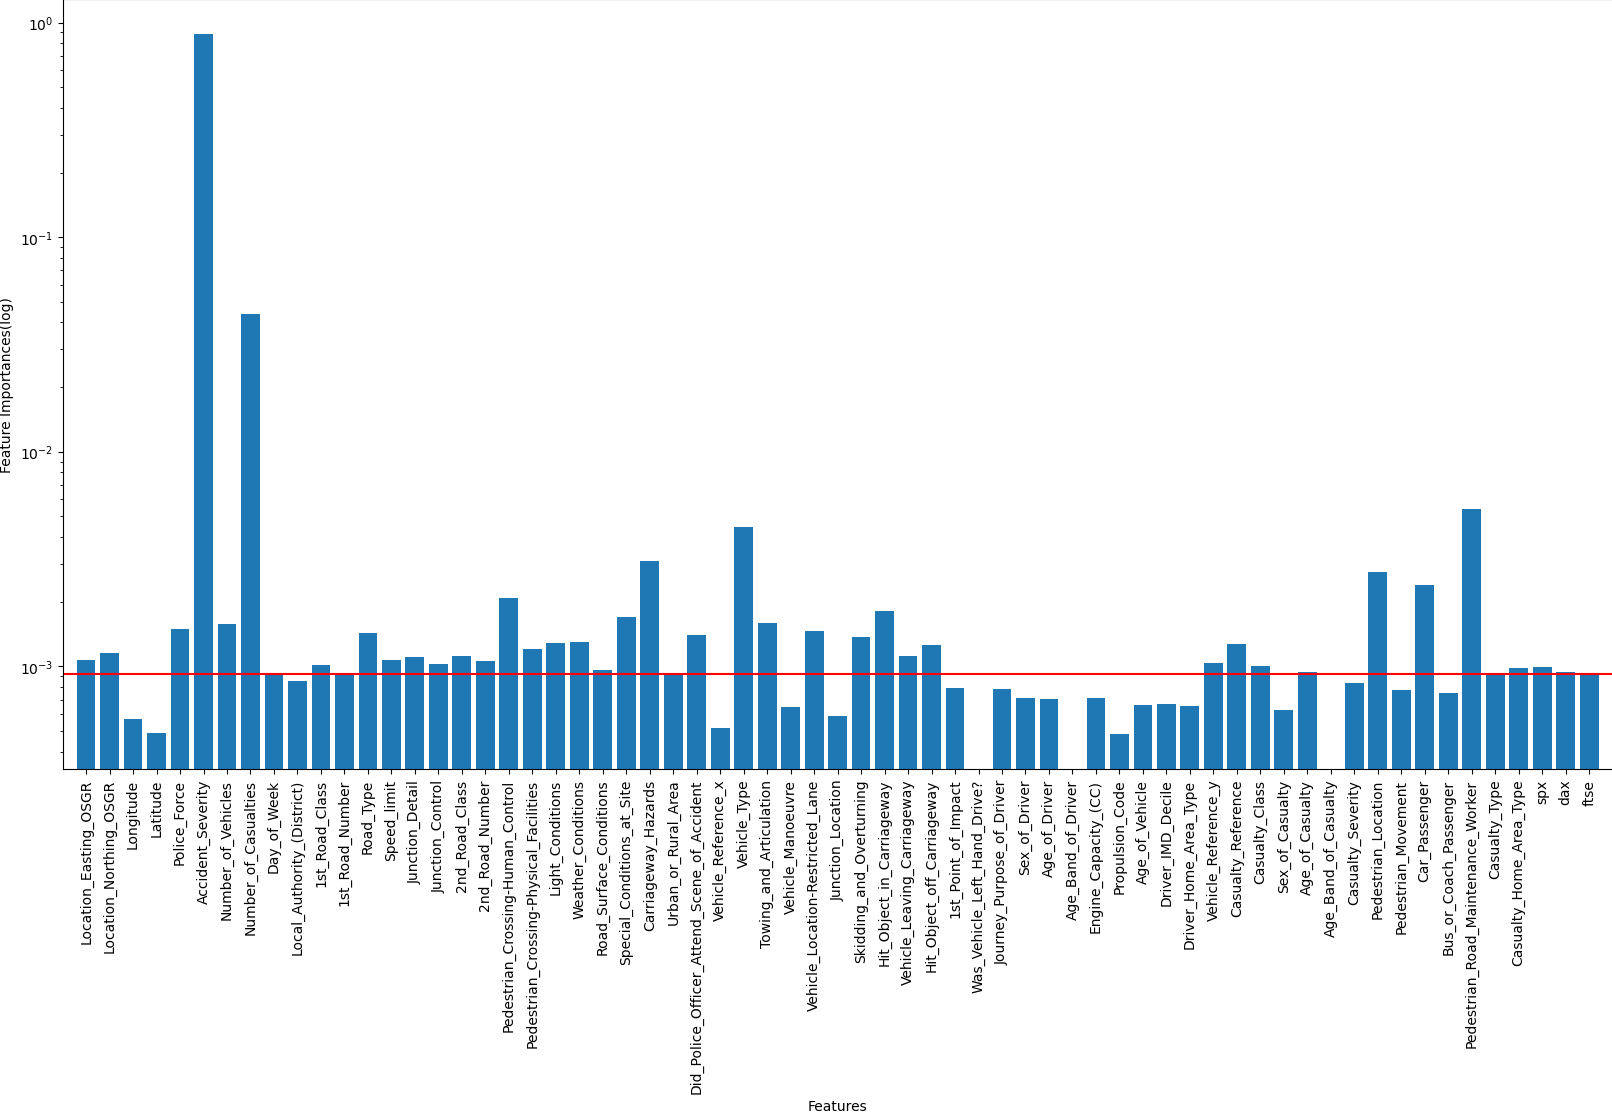
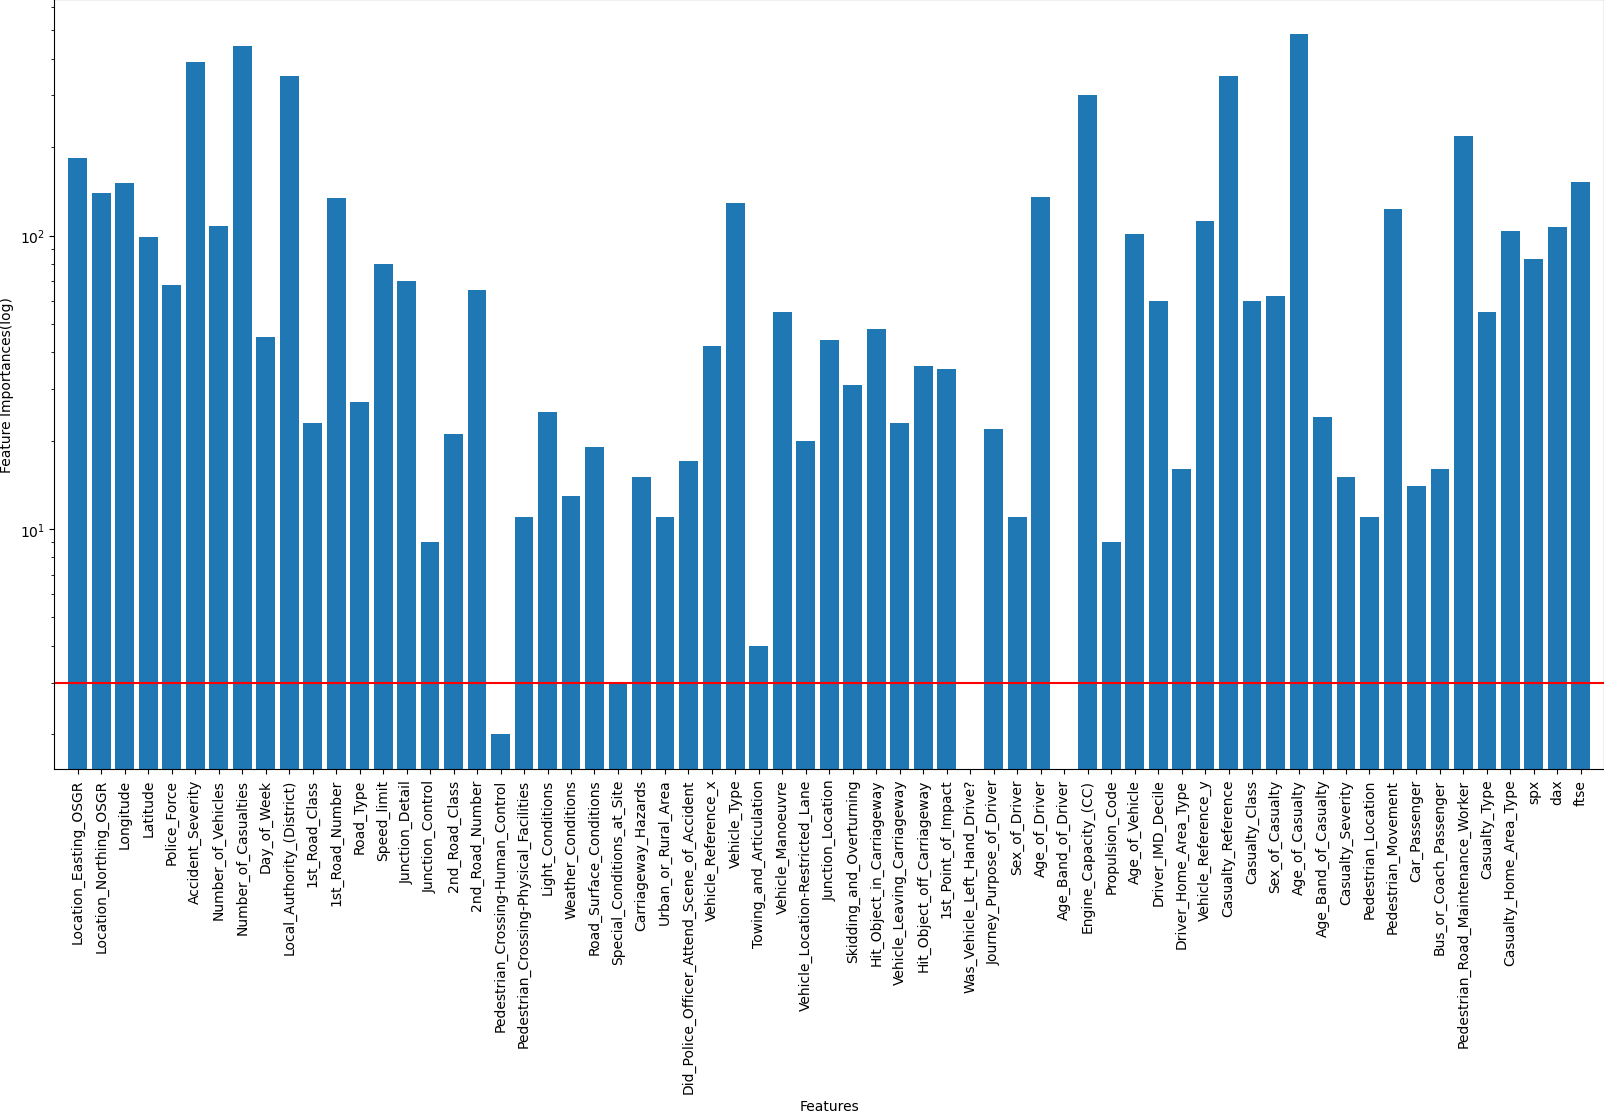
lgbm 추가

Changed region(s): [[0.0312, 0.0305, 0.9975, 0.9775], [0.4988, 0.9775, 0.5299, 1.0]]

diff --git a/project2/hcbae_pj_2_evaluate_data_lgbm.py b/project2/hcbae_pj_2_evaluate_data_lgbm.py
@@ -5,7 +5,8 @@ import numpy as np
 import pandas as pd
 import timeit
 
-from xgboost import XGBClassifier
+#from xgboost import XGBClassifier
+from lightgbm import LGBMClassifier
 
 from sklearn.model_selection import train_test_split
 from sklearn.model_selection import KFold
@@ -31,8 +32,8 @@ print("npy y.shape:",y.shape)
 # x = x[:10000,:]
 # y = y[:10000]
 # 그냥 자르기 보다는 솎아내는게 낫겠다
-temp_x,x, temp_y,y = train_test_split(
-    x,y, random_state=44, shuffle=True, test_size=0.1)
+# temp_x,x, temp_y,y = train_test_split(
+#     x,y, random_state=44, shuffle=True, test_size=0.1)
 
 # print("merge_index:", indexes)
 print("data use.shape:",x.shape)
@@ -55,6 +56,7 @@ print("split x_pred.shape:",x_pred.shape)
 parameters_arr = [
     {'anyway__n_jobs':[-1],
     'anyway__n_estimators':np.array(range(100,500,100)),
+    'anyway__num_leaves': [10],
     'anyway__max_depth': [5,6,7,8], # 트리 최대 깊이 default 6
     }
 ]
@@ -62,13 +64,15 @@ parameters_arr = [
 start_time2 = timeit.default_timer() # 시작 시간 체크
 
 kfold = KFold(n_splits=5, shuffle=True)
-pipe = Pipeline([('scaler', StandardScaler()),('anyway', XGBClassifier() )])
+pipe = Pipeline([('scaler', StandardScaler()),('anyway', LGBMClassifier() )])
 model = RandomizedSearchCV(pipe, parameters_arr, cv=kfold, verbose=0)
 model.fit(x_train, y_train)
 score_at_fi = model.score(x_test, y_test)
 print("original score:", score_at_fi)
 original_params_at_fi = model.best_params_
 print("original 최적의 파라미터:", original_params_at_fi)
+
+end_time2 = timeit.default_timer() # 시작 시간 체크
 
 
 ###### 최적의 파라미터로, 다시 모델 돌리기 -> 피쳐임포턴스 구하기 위해서
@@ -81,9 +85,6 @@ best_model = model.best_estimator_
 score_at_fi_param = best_model.score(x_test, y_test)
 print("find param score:", score_at_fi_param)
 
-end_time2 = timeit.default_timer() # 시작 시간 체크
-
-
 g_best_model = model.best_estimator_.named_steps["anyway"]
 g_feature_importance = model.best_estimator_.named_steps["anyway"].feature_importances_
 print("g_feature_importance:\r\n",g_feature_importance)
@@ -94,7 +95,7 @@ temp_array =[]
 for thresh in thresholds:
     selection = SelectFromModel(g_best_model, threshold=thresh, prefit=True)
     select_x_train = selection.transform(x_train)
-    selection_model = XGBClassifier()
+    selection_model = LGBMClassifier()
     selection_model.fit(select_x_train, y_train)
     select_x_test = selection.transform(x_test)
     y_predict = selection_model.predict(select_x_test)
@@ -210,7 +211,7 @@ print("split x_pred.shape:",x_pred.shape)
 start_time3 = timeit.default_timer() # 시작 시간 체크
 
 # ======== 최적 파라미터 적용 모델+Pipeline+SearchCV 시작 ========
-pipe = Pipeline([('scaler', StandardScaler()),('anyway', XGBClassifier() )])
+pipe = Pipeline([('scaler', StandardScaler()),('anyway', LGBMClassifier() )])
 model = RandomizedSearchCV(pipe, parameters_arr, cv=kfold, verbose=0)
 model.fit(x_train, y_train)
 score_at_final = model.score(x_test, y_test)
@@ -233,15 +234,12 @@ print("final param score:", score_at_final_param)
 print('따로 빼낸 pred로 만든 accuracy:',accuracy_score(y_stand, y_predict))
 print("================================")
 
-print("1st 탐색 %f초 걸렸습니다." % (end_time2 - start_time2))
+print("1st 탐색 %f초 걸렸습니다." % (end_time2 - start_time2)) 
 print("2nd 탐색 %f초 걸렸습니다." % (end_time3 - start_time3))
 
 
 terminate_time = timeit.default_timer() # 종료 시간 체크  
 print("%f초 걸렸습니다." % (terminate_time - start_time)) 
-
-
-
 
 
 
